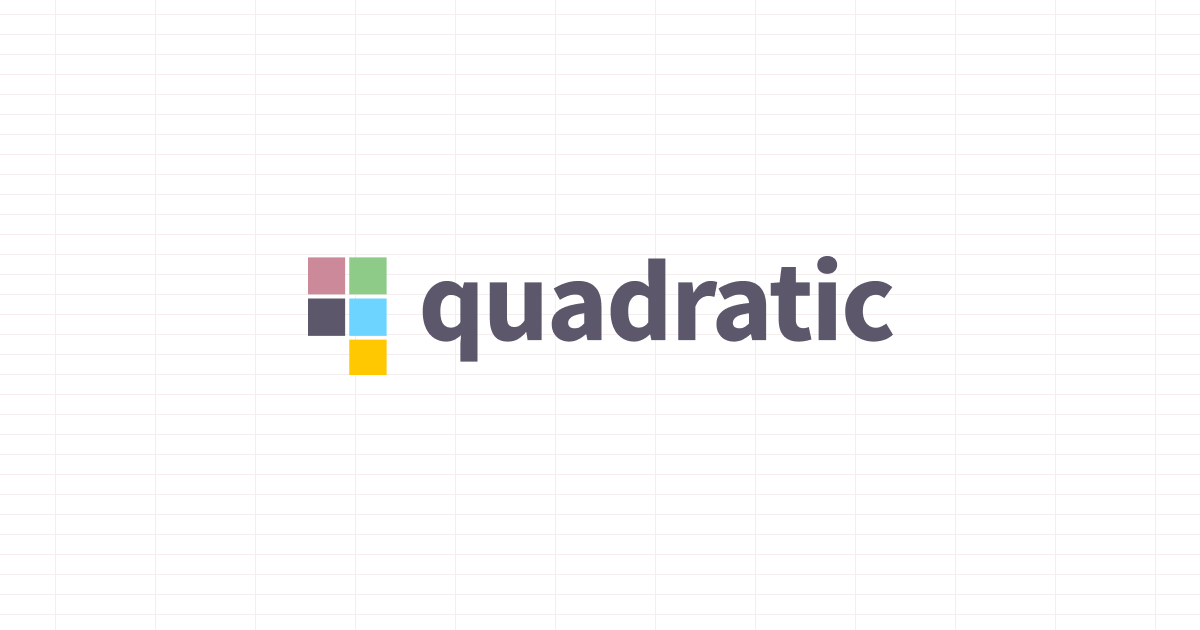
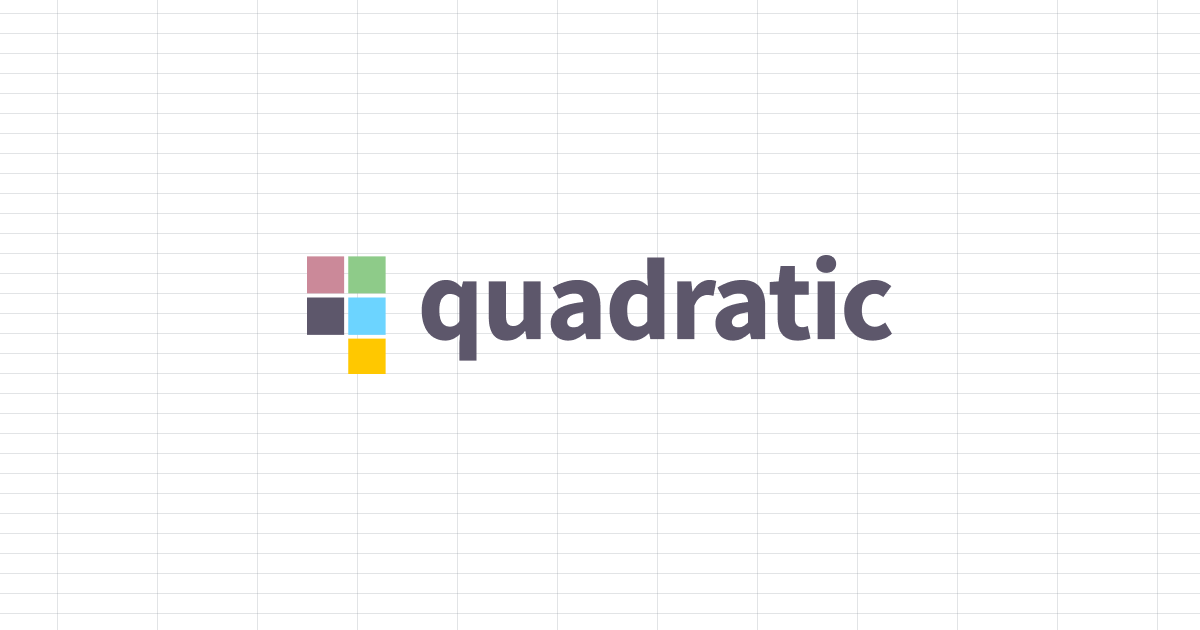
update grid line colors

Changed region(s): [[0.2467, 0.3921, 0.74, 0.6032], [0.2467, 0.3921, 0.3392, 0.4222], [0.2775, 0.5127, 0.3392, 0.5429]]

diff --git a/src/gridGL/UI/gridHeadings/GridHeadings.ts b/src/gridGL/UI/gridHeadings/GridHeadings.ts
@@ -157,7 +157,7 @@ export class GridHeadings extends Container {
     for (let x = leftOffset; x <= rightOffset; x += currentWidth) {
       currentWidth = offsets.getColumnWidth(column);
       if (gridAlpha !== 0) {
-        this.headingsGraphics.lineStyle(1, colors.gridHeadingBorder, 0.5 * gridAlpha, 0.5, true);
+        this.headingsGraphics.lineStyle(1, colors.gridLines, 0.25 * gridAlpha, 0.5, true);
         this.headingsGraphics.moveTo(x, bounds.top);
         this.headingsGraphics.lineTo(x, bounds.top + cellHeight);
         this.gridLinesColumns.push({ column: column - 1, x, width: offsets.getColumnWidth(column - 1) });
@@ -273,7 +273,7 @@ export class GridHeadings extends Container {
     for (let y = topOffset; y <= bottomOffset; y += currentHeight) {
       currentHeight = offsets.getRowHeight(row);
       if (gridAlpha !== 0) {
-        this.headingsGraphics.lineStyle(1, colors.gridHeadingBorder, 0.5 * gridAlpha, 0.5, true);
+        this.headingsGraphics.lineStyle(1, colors.gridLines, 0.25 * gridAlpha, 0.5, true);
         this.headingsGraphics.moveTo(bounds.left, y);
         this.headingsGraphics.lineTo(bounds.left + this.rowWidth, y);
         this.gridLinesRows.push({ row: row - 1, y, height: offsets.getRowHeight(row - 1) });
@@ -337,7 +337,7 @@ export class GridHeadings extends Container {
     const { viewport } = pixiApp;
     const cellHeight = CELL_HEIGHT / viewport.scale.x;
     const bounds = viewport.getVisibleBounds();
-    this.headingsGraphics.lineStyle(1, colors.gridHeadingBorder, 1, 0.5, true);
+    this.headingsGraphics.lineStyle(1, colors.gridLines, 0.25, 0.5, true);
     this.headingsGraphics.moveTo(bounds.left + this.rowWidth, viewport.top);
     this.headingsGraphics.lineTo(bounds.left + this.rowWidth, viewport.bottom);
     this.headingsGraphics.moveTo(bounds.left, bounds.top + cellHeight);

diff --git a/src/theme/colors.ts b/src/theme/colors.ts
@@ -1,7 +1,9 @@
 import * as muiColors from '@mui/material/colors';
 
 export const colors = {
-  gridLines: 0x471f29,
+  // Pulled from the CSS theme styles
+  // hsla(from var(--border) h s 20% / a) - a is set in pixi
+  gridLines: 0x233143,
   cellFontColor: 0x000000,
   cellColorUserText: 0x8ecb89,
   cellColorUserPython: 0x3776ab,
@@ -16,8 +18,7 @@ export const colors = {
   boxCellsDeleteColor: Number(`0x${muiColors.red['400'].replace('#', '')}`),
   boxCellsColor: 0x6cd4ff,
   boxCellsAlpha: 0.333,
-  gridHeadingBorder: 0xcfd7de,
-  gridHeadingLabel: 0x3e474f,
+  gridHeadingLabel: 0x233143, // same as gridLines, no alpha
   defaultBorderColor: 0,
   lightGray: '#f6f8fa',
   mediumGray: '#cfd7de',

diff --git a/src/gridGL/UI/AxesLines.ts b/src/gridGL/UI/AxesLines.ts
@@ -1,3 +1,4 @@
+import { colors } from '@/theme/colors';
 import { Graphics } from 'pixi.js';
 import { pixiApp } from '../pixiApp/PixiApp';
 import { pixiAppSettings } from '../pixiApp/PixiAppSettings';
@@ -17,7 +18,7 @@ export class AxesLines extends Graphics {
       }
 
       this.visible = true;
-      this.lineStyle(10, 0x000000, 0.35, 0, true);
+      this.lineStyle(10, colors.gridLines, 0.75, 0, true);
       const viewport = pixiApp.viewport;
       if (0 >= viewport.left && 0 <= viewport.right) {
         this.moveTo(0, viewport.top);
